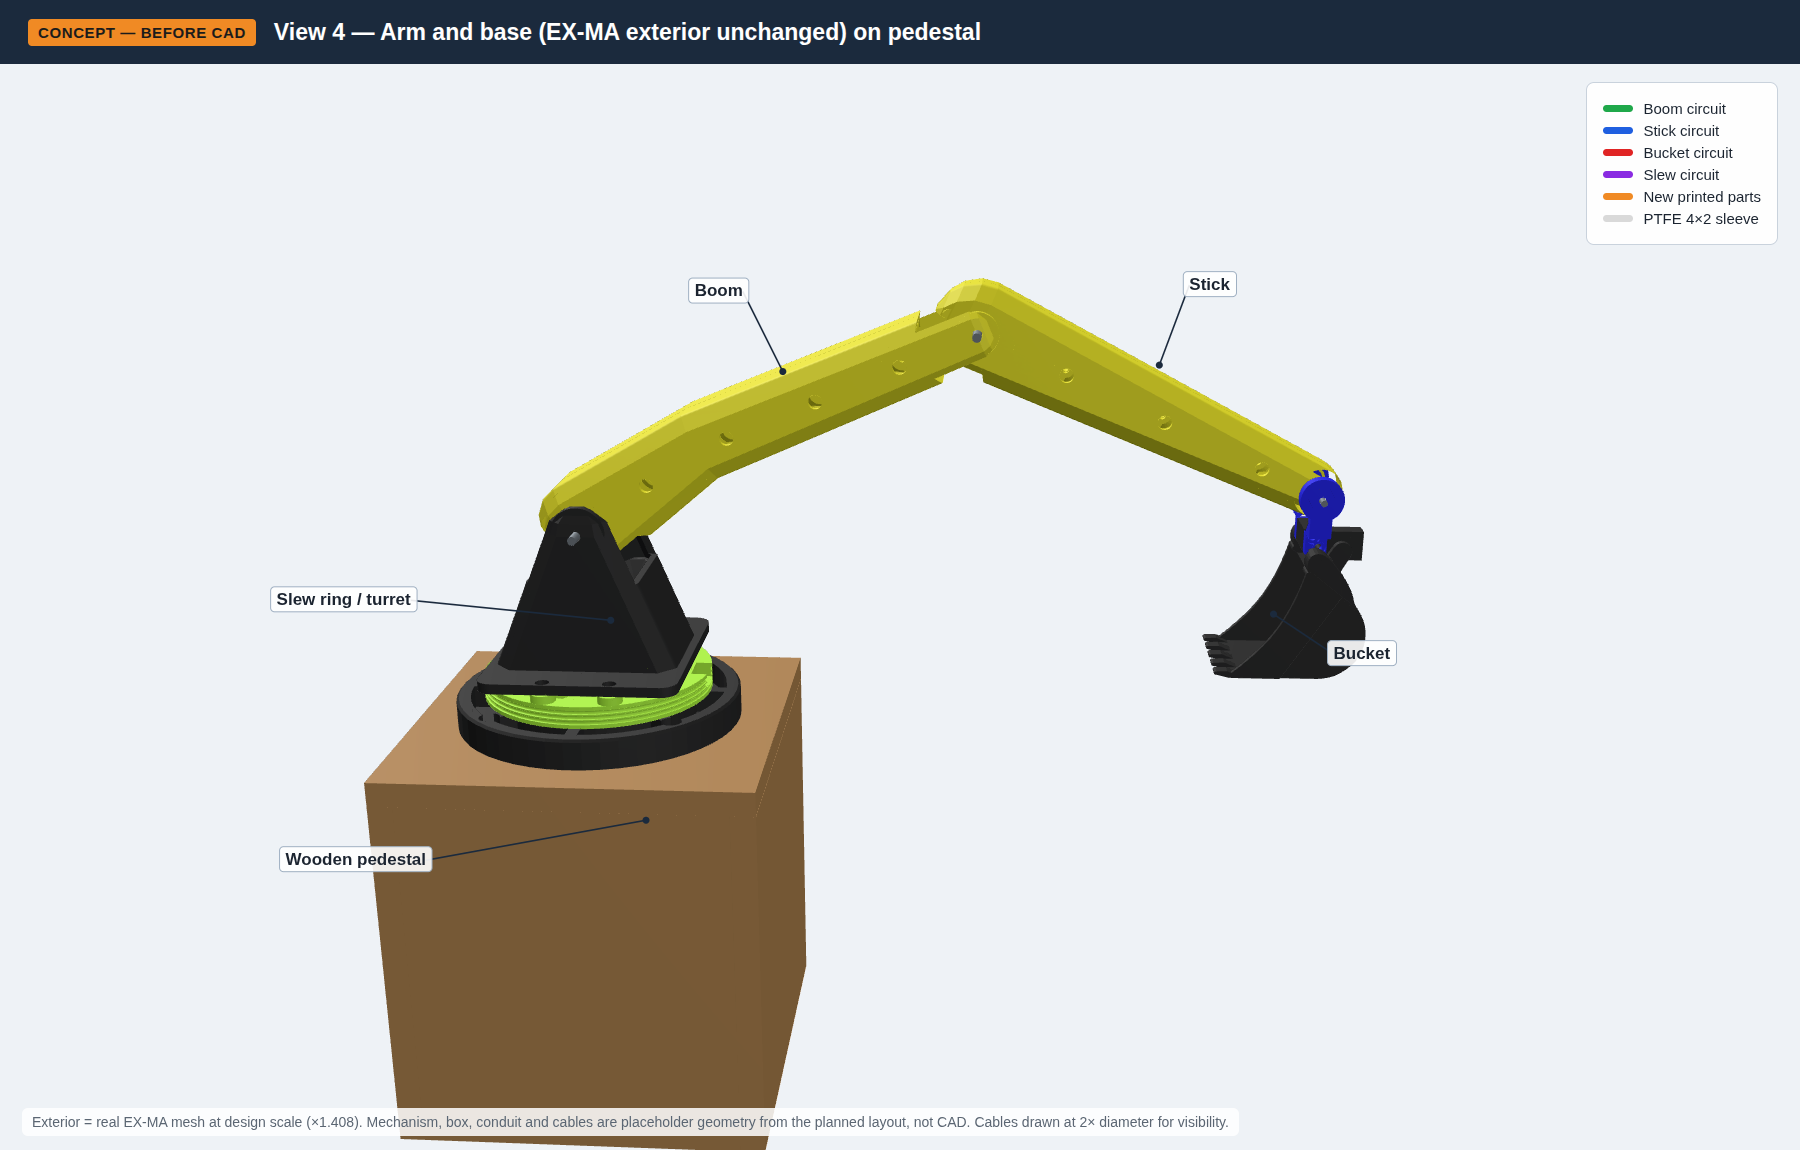
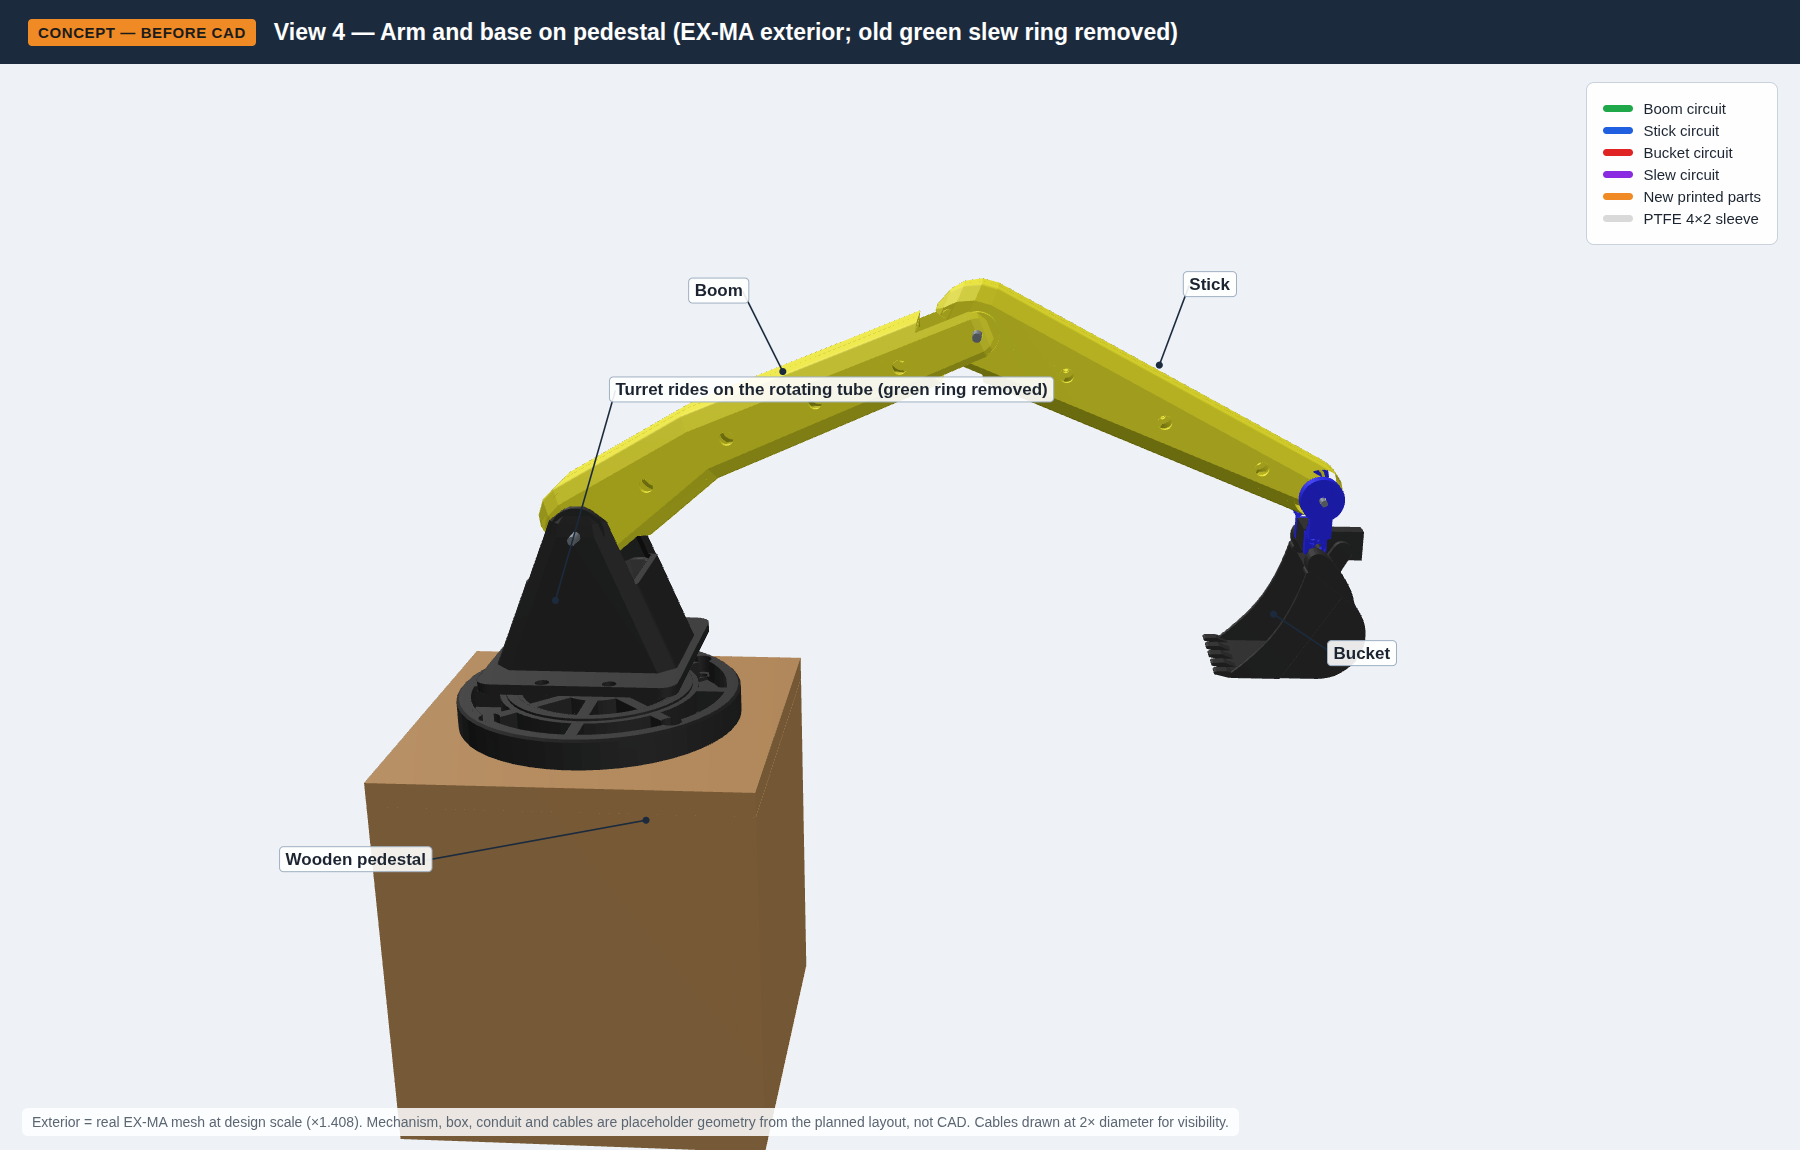
Concept: remove green slew ring; turret rides on rotating PVC tube
The green ring was the original slew drum. With the slew drum moved into the
pedestal it has no job, so it is removed along with the base centre post and
cap. The tower's centre boss is bored for the 3/4in PVC tube and cross-bolted
to it; a 3/4in PVC slip coupling on a fender washer on the base floor carries
the turret's weight. Concept images re-rendered.

Claude-Session: https://claude.ai/code/session_01FyTajvSx9qTWtyrkoopW9q

diff --git a/2026-09-24-EX-MA-simplified/Source/2026-09-24-concept-scene.py b/2026-09-24-EX-MA-simplified/Source/2026-09-24-concept-scene.py
@@ -119,10 +119,8 @@ def load_exma(path):
 # shell label -> (name, colour, group, clip-in-cutaway) ; missing labels are removed
 KEEP = {
     "0": ("base", COL["black"], "exterior", True),
-    "1": ("slew ring", COL["lime"], "exterior", True),
     "2": ("tower", COL["black"], "exterior", True),
     "3": ("boom", COL["yellow"], "exterior", True),
-    "5": ("base cap", COL["black"], "exterior", True),
     "8": ("boom pin 8-32", COL["steel"], "exterior", False),
     "9": ("stick", COL["yellow"], "exterior", True),
     "D": ("stick pin 8-32", COL["steel"], "exterior", False),
@@ -137,7 +135,12 @@ KEEP = {
 REMOVED = {"4": "boom double-groove drum", "6": "boom idler", "7": "boom idler",
            "A": "stick double-groove drum", "B": "stick idler", "C": "stick idler",
            "F": "bucket drum + sleeve", "J": "cross pin", "K": "clip", "M": "cross pin",
-           "N": "clip", "Q": "vertical pin", "R": "cross pin", "S": "vertical pin"}
+           "N": "clip", "Q": "vertical pin", "R": "cross pin", "S": "vertical pin",
+           "1": "green slew ring (old slew drum; drum now in pedestal)", "5": "base post cap"}
+
+# internal features cut away from kept shells: label -> (max centroid radius, min centroid z)
+BORE = {"0": (16.0, 15.2),   # base centre post removed -> floor bearing hole for 3/4in PVC
+        "2": (15.0, 25.0)}   # tower centre boss bored to 26.7 for the PVC tube
 
 
 def mesh_records(shells):
@@ -145,7 +148,11 @@ def mesh_records(shells):
     for lab, (name, color, group, clip) in KEEP.items():
         tris, L = shells[lab]
         arr = array("f")
+        rmax, zmin = BORE.get(lab, (-1.0, 0.0))
         for t in tris:
+            cu, cv, cz = (sum(L[i][k] for i in t) / 3 for k in range(3))
+            if math.hypot(cu, cv) < rmax and cz > zmin:
+                continue
             for i in t:
                 arr.extend(t3(L[i]))
         out.append(dict(name=name, label=lab, color=color, group=group, clip=clip,
@@ -256,6 +263,9 @@ for s_off in (-7.0, 7.0):
 
 # rotating tube (3/4" PVC) + slew drum in pedestal
 cyl((0, 0, TUBE_Z[0]), (0, 0, TUBE_Z[1]), TUBE_R, COL["pvc"], "tube", "3/4in PVC rotating tube", opacity=1.0)
+cyl((0, 0, 16.5), (0, 0, 29.5), 16.0, "#dcdcdc", "arm_mech", "3/4in PVC slip coupling (thrust collar)")
+cyl((0, 0, 15.0), (0, 0, 16.5), 19.0, COL["steel"], "arm_mech", "fender washer")
+cyl((0, -24, 50), (0, 24, 50), 1.6, COL["steel"], "arm_mech", "M3 cross-bolt tower-to-tube")
 drum_z((0.0, 0.0), Z_SLEW_LAYER, R_SLEW, 14, "arm_mech", "slew drum (in pedestal)")
 
 # --- pedestal -------------------------------------------------------------
@@ -449,11 +459,11 @@ VIEWS = {
                 ("Fairlead block → conduit", (MOUTH_U, 0, COND_Z + 40), 80, -50),
                 ("Double-crimp loops + tension screw on drum", (AXLE_U - 24, 25, AXLE_Z), -230, -10)]),
     "04-arm": dict(
-        title="View 4 — Arm and base (EX-MA exterior unchanged) on pedestal",
+        title="View 4 — Arm and base on pedestal (EX-MA exterior; old green slew ring removed)",
         cam=dict(pos=t3((200, -820, 330)), target=t3((150, 0, 60)), fov=34),
         only=["exterior", "pedestal", "pedestal_near", "tube"],
         labels=[("Boom", (95, 0, 175), -40, -80), ("Stick", (270, 0, 180), 30, -80), ("Bucket", (330, 0, 60), 60, 40),
-                ("Slew ring / turret", (0, 30, 40), -200, -20), ("Wooden pedestal", (0, 90, -100), -220, 40)]),
+                ("Turret rides on the rotating tube (green ring removed)", (-20, 0, 60), 60, -210), ("Wooden pedestal", (0, 90, -100), -220, 40)]),
     "05-arm-cutaway": dict(
         title="View 5 — Arm cutaway: joint drums, PTFE-sleeved cables, rotating tube, slew drum in pedestal",
         cam=dict(pos=t3((140, -900, 40)), target=t3((135, 0, 35)), fov=36),
@@ -465,7 +475,8 @@ VIEWS = {
                 ("PTFE stop boss (stick cables)", (150, 0, 186), -260, -60),
                 ("PTFE stop boss (bucket cables)", (305, 0, 150), 30, -80),
                 ("PTFE sleeves cross the joints", (60, -10, 140), -120, -120),
-                ("3/4″ PVC tube turns with turret", (0, 0, 30), -260, 10),
+                ("3/4″ PVC tube turns with turret (M3 cross-bolt)", (0, 0, 50), -270, -20),
+                ("PVC coupling on washer = turret thrust bearing", (16, 0, 23), 300, 20),
                 ("Slew drum Ø110 (in pedestal)", (40, 0, Z_SLEW_LAYER), 60, 20),
                 ("Copper elbow: arm cables up the axis", (-20, 0, -125), 150, 90),
                 ("Conduit from control box", (-150, 0, COND_Z + 30), -40, -120)]),
